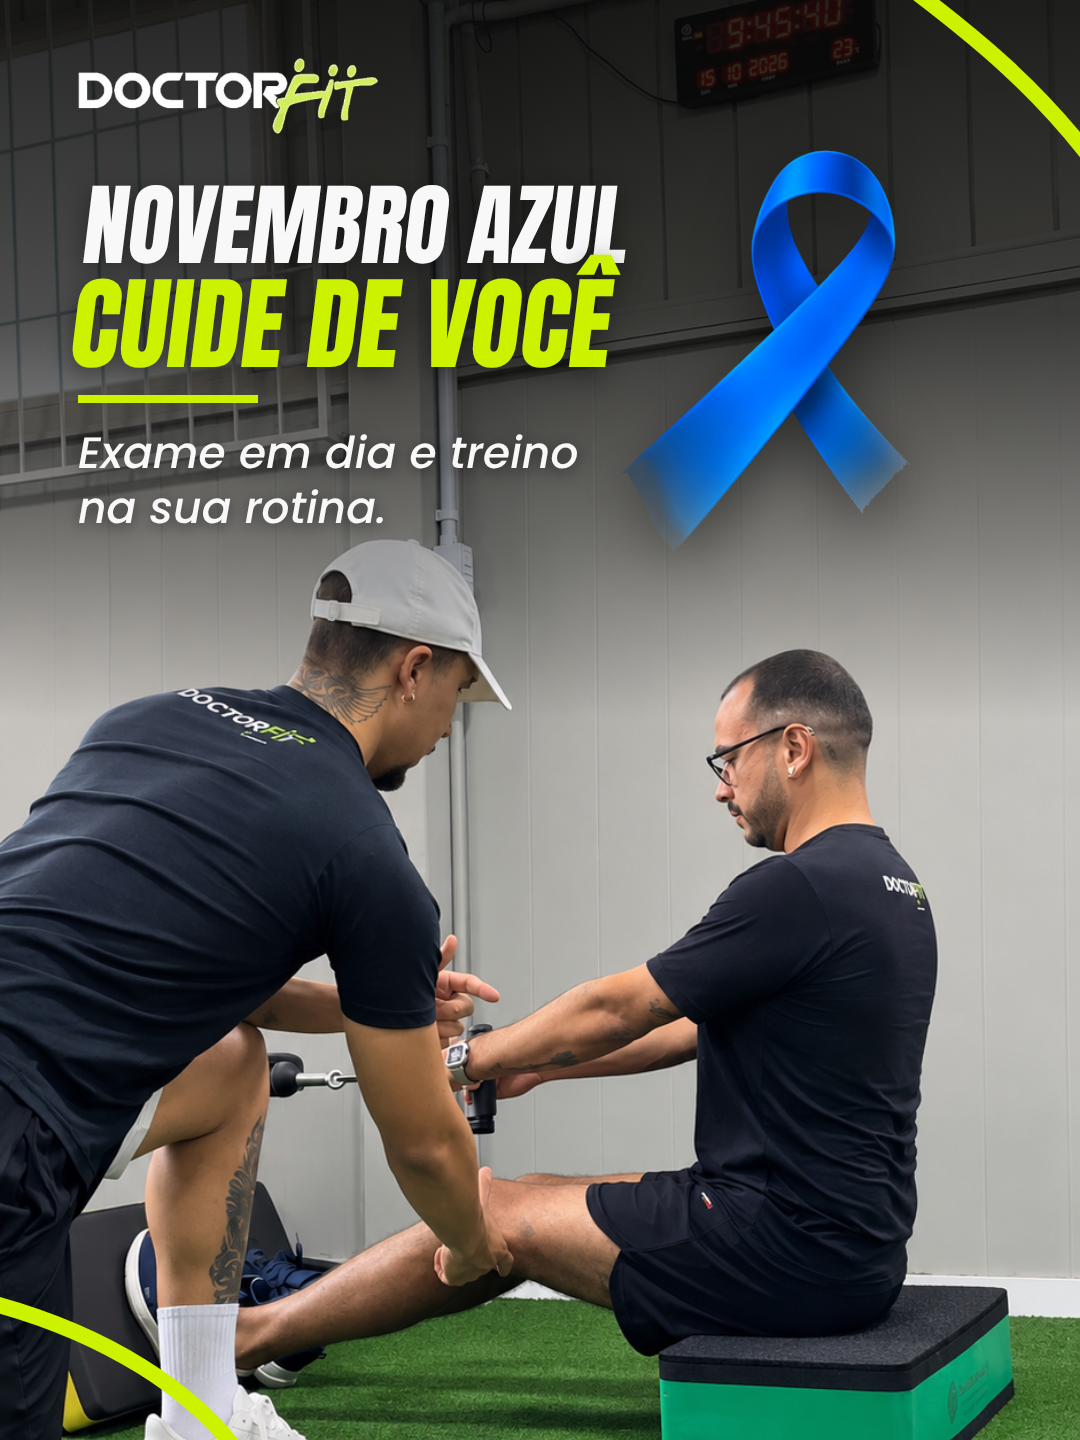
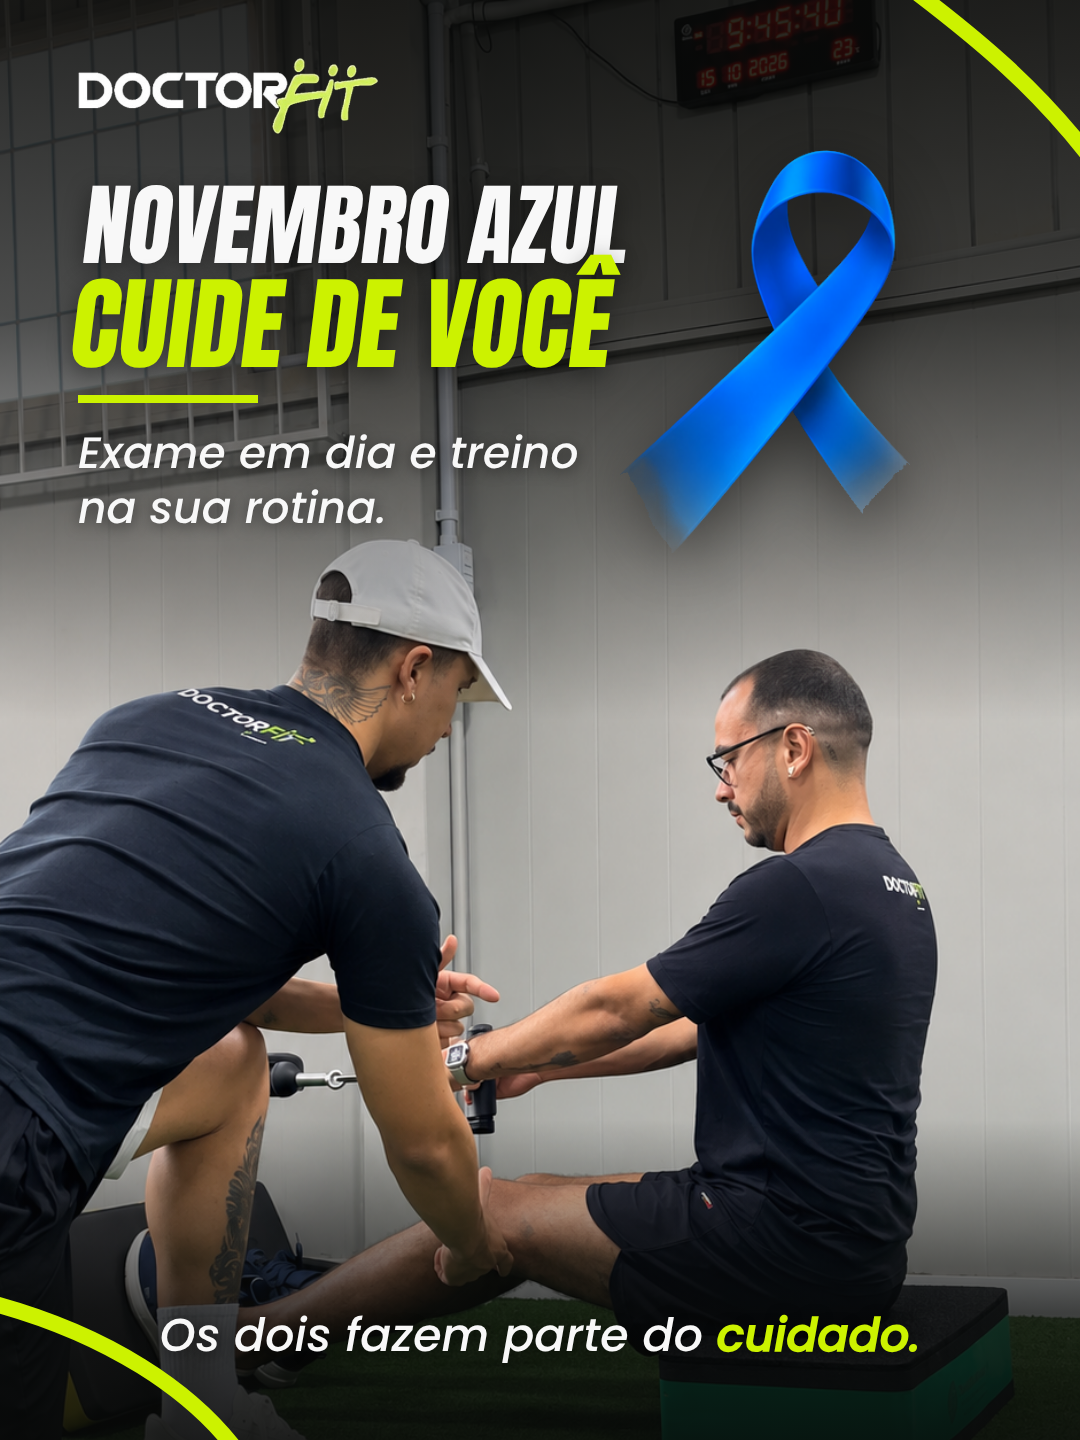
Capa Novembro Azul: frase final incluída embaixo
Claude-Session: https://claude.ai/code/session_012bVqEb5M2bw1tnz2qQiCDo

Changed region(s): [[0.0306, 0.7812, 1.0, 1.0]]

diff --git a/doctorfit/capas/novembro_azul/capa2.html b/doctorfit/capas/novembro_azul/capa2.html
@@ -11,11 +11,14 @@ html,body{width:1080px;height:1440px;overflow:hidden;background:#0c0c0c}
 .sub{position:absolute;left:78px;top:425px;font-family:Poppins;font-style:italic;font-weight:500;font-size:44px;line-height:1.25;color:#f8f8f8;text-shadow:0 3px 14px rgba(0,0,0,.5)}
 .laco{position:absolute;left:620px;top:150px;width:290px;filter:drop-shadow(0 18px 30px rgba(0,0,0,.45))}
 .curva{position:absolute;inset:0;pointer-events:none}
-</style></head><body><div class="f"></div><div class="g"></div>
+.fim{position:absolute;left:0;right:0;bottom:70px;text-align:center;font-family:Poppins;font-style:italic;font-weight:500;font-size:46px;color:#f8f8f8;text-shadow:0 3px 14px rgba(0,0,0,.6)}.fim b{color:#ccf200;font-weight:600}
+.g2{position:absolute;left:0;right:0;bottom:0;height:320px;background:linear-gradient(180deg,rgba(8,9,8,0) 0%,rgba(8,9,8,.75) 60%,rgba(8,9,8,.9) 100%)}
+</style></head><body><div class="f"></div><div class="g"></div><div class="g2"></div>
 <img class="logo" src="logo.png">
 <div class="tit"><div class="l1">Novembro Azul</div><div class="l2">Cuide de você</div></div>
 <div class="traco"></div>
 <div class="sub">Exame em dia e treino<br>na sua rotina.</div>
+<div class="fim">Os dois fazem parte do <b>cuidado.</b></div>
 <img class="laco" src="laco_final.png">
 <svg class="curva" viewBox="0 0 1080 1440"><path d="M900 -20 C 980 40, 1040 90, 1100 170" stroke="#ccf200" stroke-width="16" fill="none" stroke-linecap="round"/><path d="M-20 1300 C 100 1330, 200 1390, 250 1470" stroke="#ccf200" stroke-width="16" fill="none" stroke-linecap="round"/></svg>
 </body></html>
